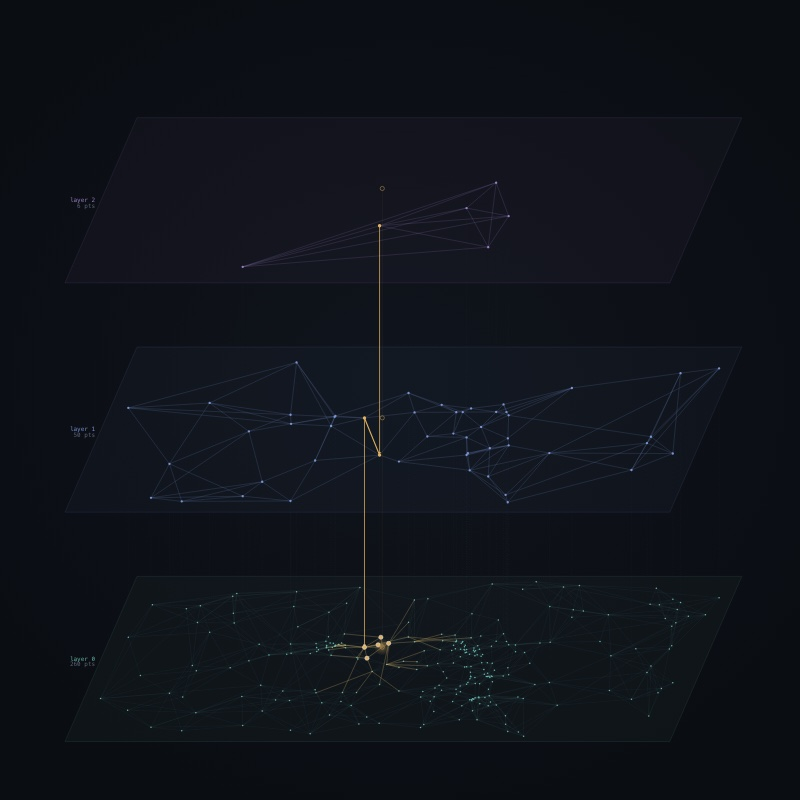
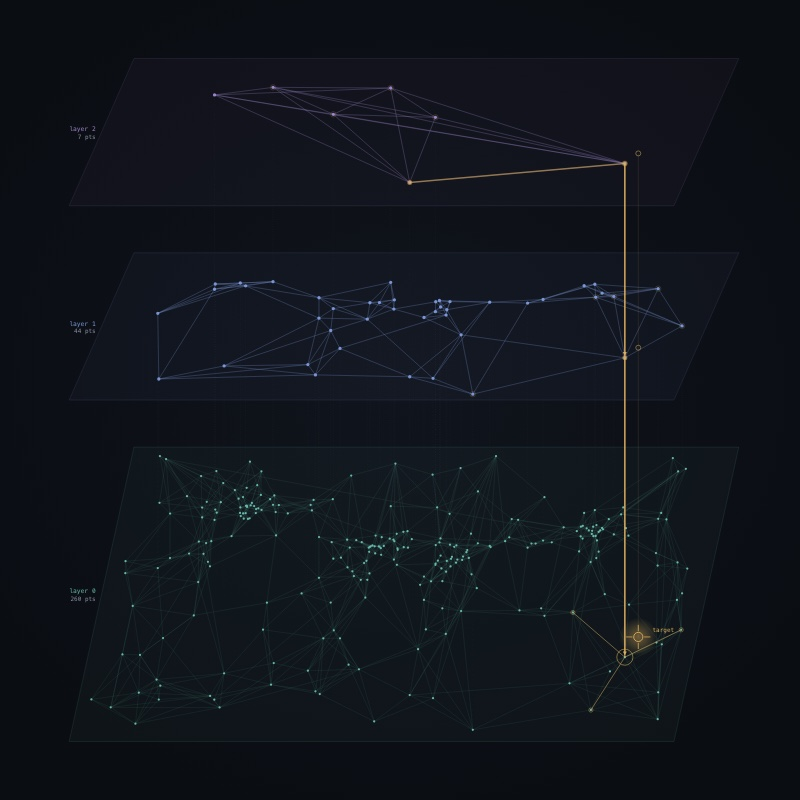
hnsw: clearer at a glance — every measured point shown, animated layer drop, clear target and nearest set
Regenerated from the Data Structures project after a review of every scene's
first minute: fuller stage, larger text, the payoff sooner, and phone taps that
show within a second (the in-flight operation completes instantly first).

diff --git a/experiences/hnsw/web/js/scenes/hnsw.js b/experiences/hnsw/web/js/scenes/hnsw.js
@@ -154,7 +154,8 @@
       let ep = [this.entry], evals = 1;
       for (let l = this.top; l > 0; l--) {
         const start = ep[0];
-        const r = this.searchLayer(q, ep, 1, l, null);
+        const checked = [];
+        const r = this.searchLayer(q, ep, 1, l, checked);
         evals += r.evals;
         // replay the greedy walk as a path: re-run it step by step
         let cur = start, path = [cur];
@@ -165,7 +166,7 @@
           cur = best;
           path.push(cur);
         }
-        hops.push({ l, path });
+        hops.push({ l, path, checked: checked.map((t) => t.to) });
         ep = [cur];
       }
       const r0 = this.searchLayer(q, ep, EF, 0, trace);
@@ -173,14 +174,17 @@
       const found = r0.W.slice(0, K);
       const truth = this.P.map((_, i) => i).sort((a, b) => this.d(a, q) - this.d(b, q)).slice(0, K);
       const recall = found.filter((f) => truth.includes(f)).length / K;
-      this.search = { q, hops, trace, ep0: ep[0], found: [], shownHop: -1, shownPath: 0, shownTrace: 0, done: false };
-      DS.say(`search  ·  enter at the top layer (${this.top}), at the one point that lives there`);
-      yield 0.9;
+      this.search = { q, hops, trace, ep0: ep[0], found: [], shownHop: -1, shownPath: 0, shownTrace: 0, done: false, t0: this.clock, drop: null, foundAt: 0 };
+      DS.say(`search  ·  enter at the top layer (${this.top}), at its entry point`);
+      yield 0.8;
       for (let h = 0; h < hops.length; h++) {
         this.search.shownHop = h;
         for (let k = 1; k <= hops[h].path.length; k++) { this.search.shownPath = k; yield 0.3; }
-        DS.say(`layer ${hops[h].l}  ·  ${hops[h].path.length - 1} long hop${hops[h].path.length === 2 ? '' : 's'} toward the target  →  drop down`);
-        yield 0.35;
+        const n = hops[h].path.length - 1;
+        DS.say(n ? `layer ${hops[h].l}  ·  ${n} long hop${n === 1 ? '' : 's'} toward the target  →  drop down a layer` : `layer ${hops[h].l}  ·  already the closest point here  →  drop down a layer`);
+        yield 0.2;
+        this.search.drop = { h, t0: this.clock };
+        yield 0.6;
       }
       this.search.shownHop = hops.length;
       DS.say('layer 0  ·  a small beam search among close neighbours');
@@ -189,14 +193,16 @@
       this.search.shownTrace = trace.length;
       this.search.found = found;
       this.search.done = true;
+      this.search.foundAt = this.clock;
       this.lastEval = evals;
       this.recall = recall;
       DS.say(`found the ${K} nearest  ·  measured ${evals} distances out of ${this.P.length} points  ·  ${Math.round(recall * 100)}% match the exact answer`, 'good');
-      yield 3.2;
+      yield 3.6;
       this.search = null;
     },
 
     *addGen() {
+      DS.say('adding 20 points  ·  each draws its random top layer, then links to its nearest neighbours on every layer below');
       for (let k = 0; k < 20; k++) { this.insert(this.randPoint(), false); yield 0.08; }
       DS.say(`+20 points  ·  each one linked into every layer it drew`, 'good');
       yield 0.6;
@@ -217,21 +223,27 @@
     },
 
     update(dt, auto) {
+      this.clock = (this.clock || 0) + dt;
       this.steps.update(dt);
       if (auto && !this.steps.busy) this.auto();
       for (let i = 0; i < this.born.length; i++) if (this.born[i] > 0) this.born[i] = Math.max(0, this.born[i] - dt * 0.6);
     },
 
+    // Layer 0 holds every point, so its sheet is drawn deeper than the sparse
+    // ones above. Every sheet shares one horizontal skew, so a point's pillar
+    // through the layers stays vertical.
     geo() {
       const S = DS.stage, u = DS.u;
       const layers = Math.max(this.top + 1, 3);
-      const gap = S.h / layers;
-      const sh = gap * 0.72;               // sheet depth on screen
-      const sw = S.w * 0.84, skew = S.w * 0.1;
-      return { layers, gap, sh, sw, skew, x0: S.x + 60 * u, base: S.y1 - 6 * u };
+      const Du = (S.h - 12 * u) / (2 + (layers - 1) * 1.32);
+      const D0 = 2 * Du, gapU = 0.32 * Du;
+      const base = [S.y1 - 6 * u], depth = [D0];
+      for (let l = 1; l < layers; l++) { base.push(base[l - 1] - depth[l - 1] - gapU); depth.push(Du); }
+      const sw = S.w * 0.84, skew = S.w * 0.09;
+      return { layers, base, depth, sw, skew, x0: S.x + 70 * u };
     },
     proj(p, l, G) {
-      const y = G.base - l * G.gap - (1 - p[1]) * G.sh;
+      const y = G.base[l] - (1 - p[1]) * G.depth[l];
       const x = G.x0 + p[0] * G.sw + (1 - p[1]) * G.skew;
       return [x, y];
     },
@@ -239,6 +251,7 @@
     draw(g) {
       const G = this.geo(), u = DS.u, S = this.search;
       const P = this.P;
+      const now = this.clock || 0;
       // sheets, bottom first so upper ones overlay
       for (let l = 0; l < G.layers; l++) {
         const col = LAYER_COL[l % LAYER_COL.length];
@@ -246,15 +259,15 @@
         g.beginPath();
         c.forEach(([x, y], i) => (i ? g.lineTo(x, y) : g.moveTo(x, y)));
         g.closePath();
-        g.fillStyle = DS.rgba(col, 0.035);
+        g.fillStyle = DS.rgba(col, 0.04);
         g.fill();
-        g.strokeStyle = DS.rgba(col, 0.25);
+        g.strokeStyle = DS.rgba(col, 0.28);
         g.lineWidth = 1 * u;
         g.stroke();
         const [lx, ly] = this.proj([0, 0.5], l, G);
-        DS.text(g, `layer ${l}`, lx - 14 * u, ly, { size: 13 * u, mono: true, color: DS.rgba(col, 0.9), align: 'right' });
+        DS.text(g, `layer ${l}`, lx - 14 * u, ly - 6 * u, { size: 15 * u, mono: true, color: DS.rgba(col, 0.95), align: 'right' });
         const cnt = this.lvl.filter((v) => v >= l).length;
-        DS.text(g, `${cnt} pts`, lx - 14 * u, ly + 14 * u, { size: 10.5 * u, mono: true, color: C.mute, align: 'right' });
+        DS.text(g, `${cnt} pts`, lx - 14 * u, ly + 12 * u, { size: 12 * u, mono: true, color: C.dim, align: 'right' });
 
         // edges on this layer
         const nb = this.nb[l];
@@ -269,18 +282,18 @@
               g.lineTo(bx, by);
             }
           }
-          g.strokeStyle = DS.rgba(col, l === 0 ? 0.14 : 0.32);
-          g.lineWidth = (l === 0 ? 0.8 : 1.2) * u;
+          g.strokeStyle = DS.rgba(col, l === 0 ? 0.19 : 0.4);
+          g.lineWidth = (l === 0 ? 1 : 1.6) * u;
           g.stroke();
           // points
           g.beginPath();
           for (const a of nb.keys()) {
             const [x, y] = this.proj(P[a], l, G);
-            const r = (l === 0 ? 1.8 : 2.8) * u + this.born[a] * 3 * u;
+            const r = (l === 0 ? 2.7 : 4) * u + this.born[a] * 3 * u;
             g.moveTo(x + r, y);
             g.arc(x, y, r, 0, 6.2832);
           }
-          g.fillStyle = DS.rgba(col, 0.9);
+          g.fillStyle = DS.rgba(col, 0.92);
           g.fill();
         }
       }
@@ -294,57 +307,102 @@
         g.moveTo(x0, y0);
         g.lineTo(x1, y1);
       }
-      g.strokeStyle = DS.rgba(C.dim, 0.12);
+      g.strokeStyle = DS.rgba(C.dim, 0.14);
       g.lineWidth = 1 * u;
       g.stroke();
       g.setLineDash([]);
 
       if (!S) return;
-      // the query, shown on every layer, joined by a faint pillar
-      for (let l = 0; l < G.layers; l++) {
-        const [x, y] = this.proj(S.q, l, G);
-        DS.circle(g, x, y, 5 * u, null, DS.rgba(C.amber, 0.7), 1.5 * u);
-      }
+      const since = now - S.t0;
+      const fade = Math.min(1, since / 0.4);
+      // the target, shown on every layer, joined by a faint pillar
       const [qx0, qy0] = this.proj(S.q, 0, G), [qx1, qy1] = this.proj(S.q, G.layers - 1, G);
-      DS.line(g, qx0, qy0, qx1, qy1, DS.rgba(C.amber, 0.15), 1 * u);
-      DS.halo(g, qx0, qy0, 20 * u, C.amber, 0.4);
+      DS.line(g, qx0, qy0, qx1, qy1, DS.rgba(C.amber, 0.22 * fade), 1.2 * u);
+      for (let l = 1; l < G.layers; l++) {
+        const [x, y] = this.proj(S.q, l, G);
+        DS.circle(g, x, y, 6 * u, null, DS.rgba(C.amber, 0.75 * fade), 1.6 * u);
+      }
+      // on the bottom layer it is a crosshair with a beating ring, so it can't be missed
+      const beat = 0.5 + 0.5 * Math.sin(now * 5);
+      DS.halo(g, qx0, qy0, 46 * u, C.amber, 0.45 * fade);
+      DS.circle(g, qx0, qy0, (9 + 3 * beat) * u, null, DS.rgba(C.amber, 0.95 * fade), 2.2 * u);
+      const ch = 20 * u, gap = 5 * u;
+      for (const [dx, dy] of [[1, 0], [-1, 0], [0, 1], [0, -1]]) DS.line(g, qx0 + dx * (9 * u + gap), qy0 + dy * (9 * u + gap), qx0 + dx * (9 * u + ch), qy0 + dy * (9 * u + ch), DS.rgba(C.amber, 0.9 * fade), 2 * u);
+      DS.text(g, 'target', qx0 + 34 * u, qy0 - 16 * u, { size: 14 * u, mono: true, color: DS.rgba(C.amber, fade), align: 'left' });
 
-      // the descent
+      // the descent: the current layer bright, finished layers quieter
+      const onBottom = S.shownHop >= S.hops.length;
       for (let h = 0; h < S.hops.length && h <= S.shownHop; h++) {
-        const { l, path } = S.hops[h];
+        const { l, path, checked } = S.hops[h];
         const n = h === S.shownHop ? S.shownPath : path.length;
+        const live = h === S.shownHop && !onBottom;
+        const a = live ? 1 : 0.55;
+        // every point whose distance this layer measured
+        for (const c of checked) { const [x, y] = this.proj(P[c], l, G); DS.circle(g, x, y, 6.5 * u, null, DS.rgba(C.amber, 0.55 * a), 1.4 * u); }
         g.beginPath();
         for (let k = 0; k < n; k++) {
           const [x, y] = this.proj(P[path[k]], l, G);
           k ? g.lineTo(x, y) : g.moveTo(x, y);
         }
-        g.strokeStyle = C.amber;
-        g.lineWidth = 2.6 * u;
+        g.strokeStyle = DS.rgba(C.amber, a);
+        g.lineWidth = 4 * u;
         g.lineJoin = 'round';
         g.stroke();
-        for (let k = 0; k < n; k++) { const [x, y] = this.proj(P[path[k]], l, G); DS.circle(g, x, y, 4 * u, C.amber); }
-        if (n === path.length && h < S.shownHop) {
+        for (let k = 0; k < n; k++) { const [x, y] = this.proj(P[path[k]], l, G); DS.circle(g, x, y, 6 * u, DS.rgba(C.amber, a)); }
+        if (live && n > 0) { const [x, y] = this.proj(P[path[n - 1]], l, G); DS.halo(g, x, y, 30 * u, C.amber, 0.5); }
+        // the drop to the next layer: a bead slides down the pillar and lands with a ripple
+        const dropping = S.drop && S.drop.h === h;
+        if (n === path.length && (h < S.shownHop || onBottom || dropping)) {
           const last = path[path.length - 1];
           const [x0, y0] = this.proj(P[last], l, G), [x1, y1] = this.proj(P[last], l - 1, G);
-          DS.arrow(g, x0, y0, x1, y1, DS.rgba(C.amber, 0.9), 2 * u, 8 * u);
+          const dt = dropping ? now - S.drop.t0 : 9;
+          const t = DS.smooth(Math.min(1, dt / 0.45));
+          const yb = y0 + (y1 - y0) * t;
+          DS.line(g, x0, y0, x0, yb, DS.rgba(C.amber, 0.9), 2.6 * u);
+          if (t < 1) { DS.halo(g, x0, yb, 26 * u, C.amber, 0.6); DS.circle(g, x0, yb, 6 * u, C.amber); }
+          else {
+            DS.arrow(g, x0, y0, x1, y1 - 4 * u, DS.rgba(C.amber, 0.9), 2.6 * u, 11 * u);
+            const rt = dt - 0.45;
+            if (rt < 0.7) DS.circle(g, x1, y1, (8 + 40 * rt) * u, null, DS.rgba(C.amber, 0.9 * (1 - rt / 0.7)), 2.4 * u);
+          }
         }
       }
-      // layer-0 beam search
-      if (S.shownHop >= S.hops.length) {
+      // layer-0 beam search: the links it followed and every point it measured
+      if (onBottom) {
+        const upto = Math.min(S.shownTrace, S.trace.length);
         g.beginPath();
-        for (let k = 0; k < S.shownTrace && k < S.trace.length; k++) {
+        for (let k = 0; k < upto; k++) {
           const t = S.trace[k];
           const [x0, y0] = this.proj(P[t.from], 0, G), [x1, y1] = this.proj(P[t.to], 0, G);
           g.moveTo(x0, y0);
           g.lineTo(x1, y1);
         }
-        g.strokeStyle = DS.rgba(C.amber, 0.45);
-        g.lineWidth = 1.3 * u;
+        g.strokeStyle = DS.rgba(C.amber, S.done ? 0.35 : 0.6);
+        g.lineWidth = 1.8 * u;
         g.stroke();
-        for (const f of S.found) {
-          const [x, y] = this.proj(P[f], 0, G);
-          DS.circle(g, x, y, 5 * u, C.amber, C.ink, 1.4 * u);
-          DS.line(g, x, y, qx0, qy0, DS.rgba(C.amber, 0.6), 1.2 * u);
+        g.beginPath();
+        for (let k = 0; k < upto; k++) {
+          const [x, y] = this.proj(P[S.trace[k].to], 0, G);
+          g.moveTo(x + 5 * u, y);
+          g.arc(x, y, 5 * u, 0, 6.2832);
+        }
+        g.strokeStyle = DS.rgba(C.amber, S.done ? 0.4 : 0.7);
+        g.lineWidth = 1.4 * u;
+        g.stroke();
+        if (S.found.length) {
+          const ft = now - S.foundAt;
+          const pop = DS.smooth(Math.min(1, ft / 0.35));
+          for (const f of S.found) {
+            const [x, y] = this.proj(P[f], 0, G);
+            DS.line(g, qx0 + (x - qx0) * (1 - pop), qy0 + (y - qy0) * (1 - pop), qx0, qy0, DS.rgba(C.amber, 0.85), 2 * u);
+          }
+          for (const f of S.found) {
+            const [x, y] = this.proj(P[f], 0, G);
+            DS.halo(g, x, y, 26 * u, C.amber, 0.5 * pop);
+            DS.circle(g, x, y, (4 + 4.5 * pop) * u, C.amber, C.ink, 2 * u);
+            if (ft < 0.9) DS.circle(g, x, y, (8 + 34 * ft) * u, null, DS.rgba(C.amber, 0.8 * (1 - ft / 0.9)), 2 * u);
+          }
+          DS.text(g, `${S.found.length} nearest`, qx0 + 34 * u, qy0 + 18 * u, { size: 15 * u, mono: true, weight: 600, color: DS.rgba(C.amber, pop), align: 'left' });
         }
       }
     },

diff --git a/experiences/hnsw/web/js/main.js b/experiences/hnsw/web/js/main.js
@@ -247,6 +247,10 @@
       if (st.pending >= 0 || !(s.actions || []).some((a) => a.id === id)) return false;
       activity();
       st.autoHold = st.t + 14;   // let the visitor's op play out before autoplay resumes
+      // A tap must show within a second: finish whatever is mid-flight and start
+      // the visitor's action now. Scenes that manage interruption themselves
+      // (a scripted story, say) set `preempt: false`.
+      if (s.preempt !== false && s.steps && s.steps.preempt) s.steps.preempt();
       s.act(id);
       return true;
     },
@@ -396,7 +400,7 @@
   renderMode();
   const warp = Math.min(600, parseFloat(params.get('warp')) || 0);
   for (let t = 0; t < warp; t += 1 / 30) { DS.time = st.t += 1 / 30; cur().update(1 / 30, true); }
-  if (warp) st.fade = 1;
+  if (warp) { st.fade = 1; if (opPending) { const [t, tone] = opPending; opPending = null; showOp(t, tone); } }
   if (params.has('clean')) document.querySelectorAll('.hud').forEach((e) => { e.style.display = 'none'; });
   requestAnimationFrame(frame);
 })();

diff --git a/experiences/hnsw/web/js/core.js b/experiences/hnsw/web/js/core.js
@@ -138,6 +138,21 @@
     clear() { this.q.length = 0; this.wait = 0; }
     run(job) { this.q.push(job); return this; }
     hold(s) { this.q.push(() => s); return this; }
+    // Make room for a visitor: finish the operation in flight instantly (so the
+    // structure is never left half-changed), and drop queued work that hasn't
+    // started. Generators are run to completion with their holds skipped.
+    preempt() {
+      const head = this.q[0];
+      this.q.length = 0;
+      this.wait = 0;
+      if (head && typeof head.next === 'function') {
+        for (let guard = 0; guard < 100000; guard++) {
+          const { value, done } = head.next();
+          if (done) break;
+          if (value && typeof value.next === 'function') { /* nested generator objects are driven by yield* already */ }
+        }
+      }
+    }
     update(dt) {
       this.wait -= dt;
       let guard = 0;
